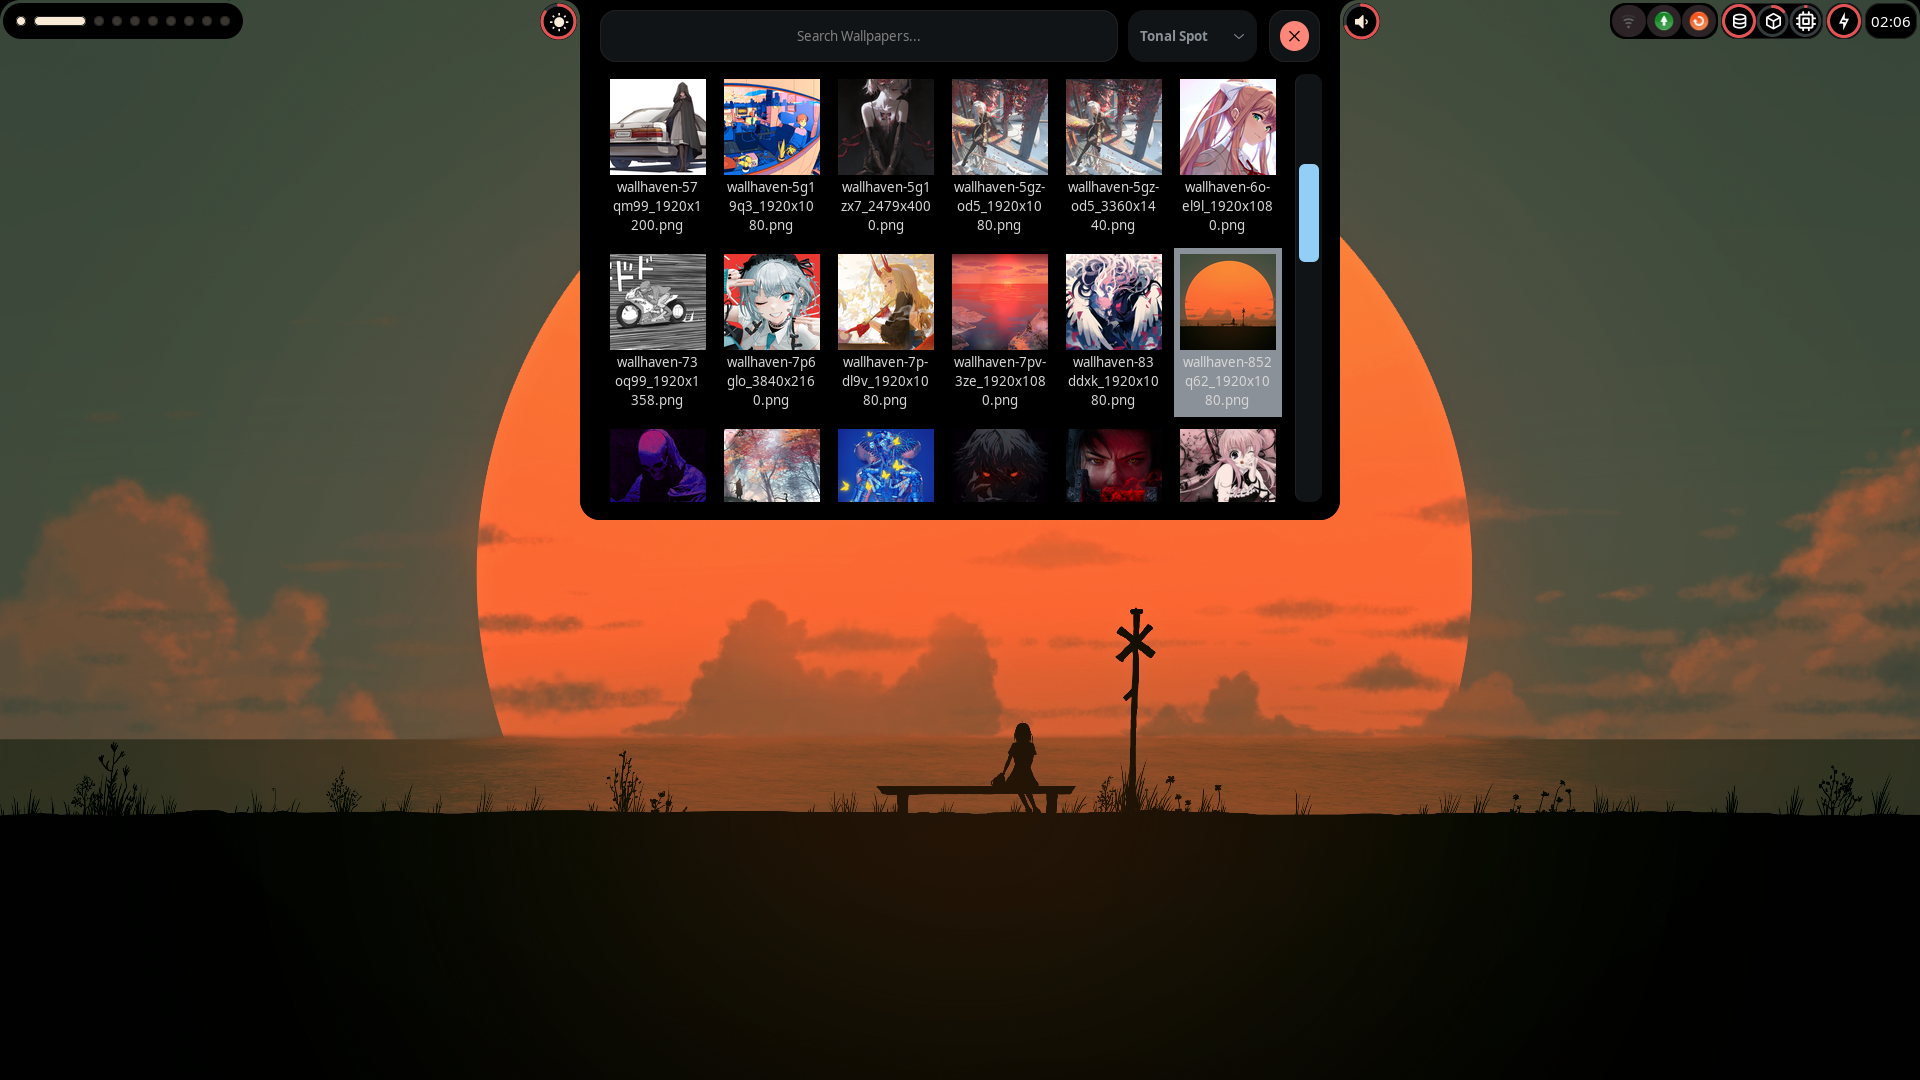
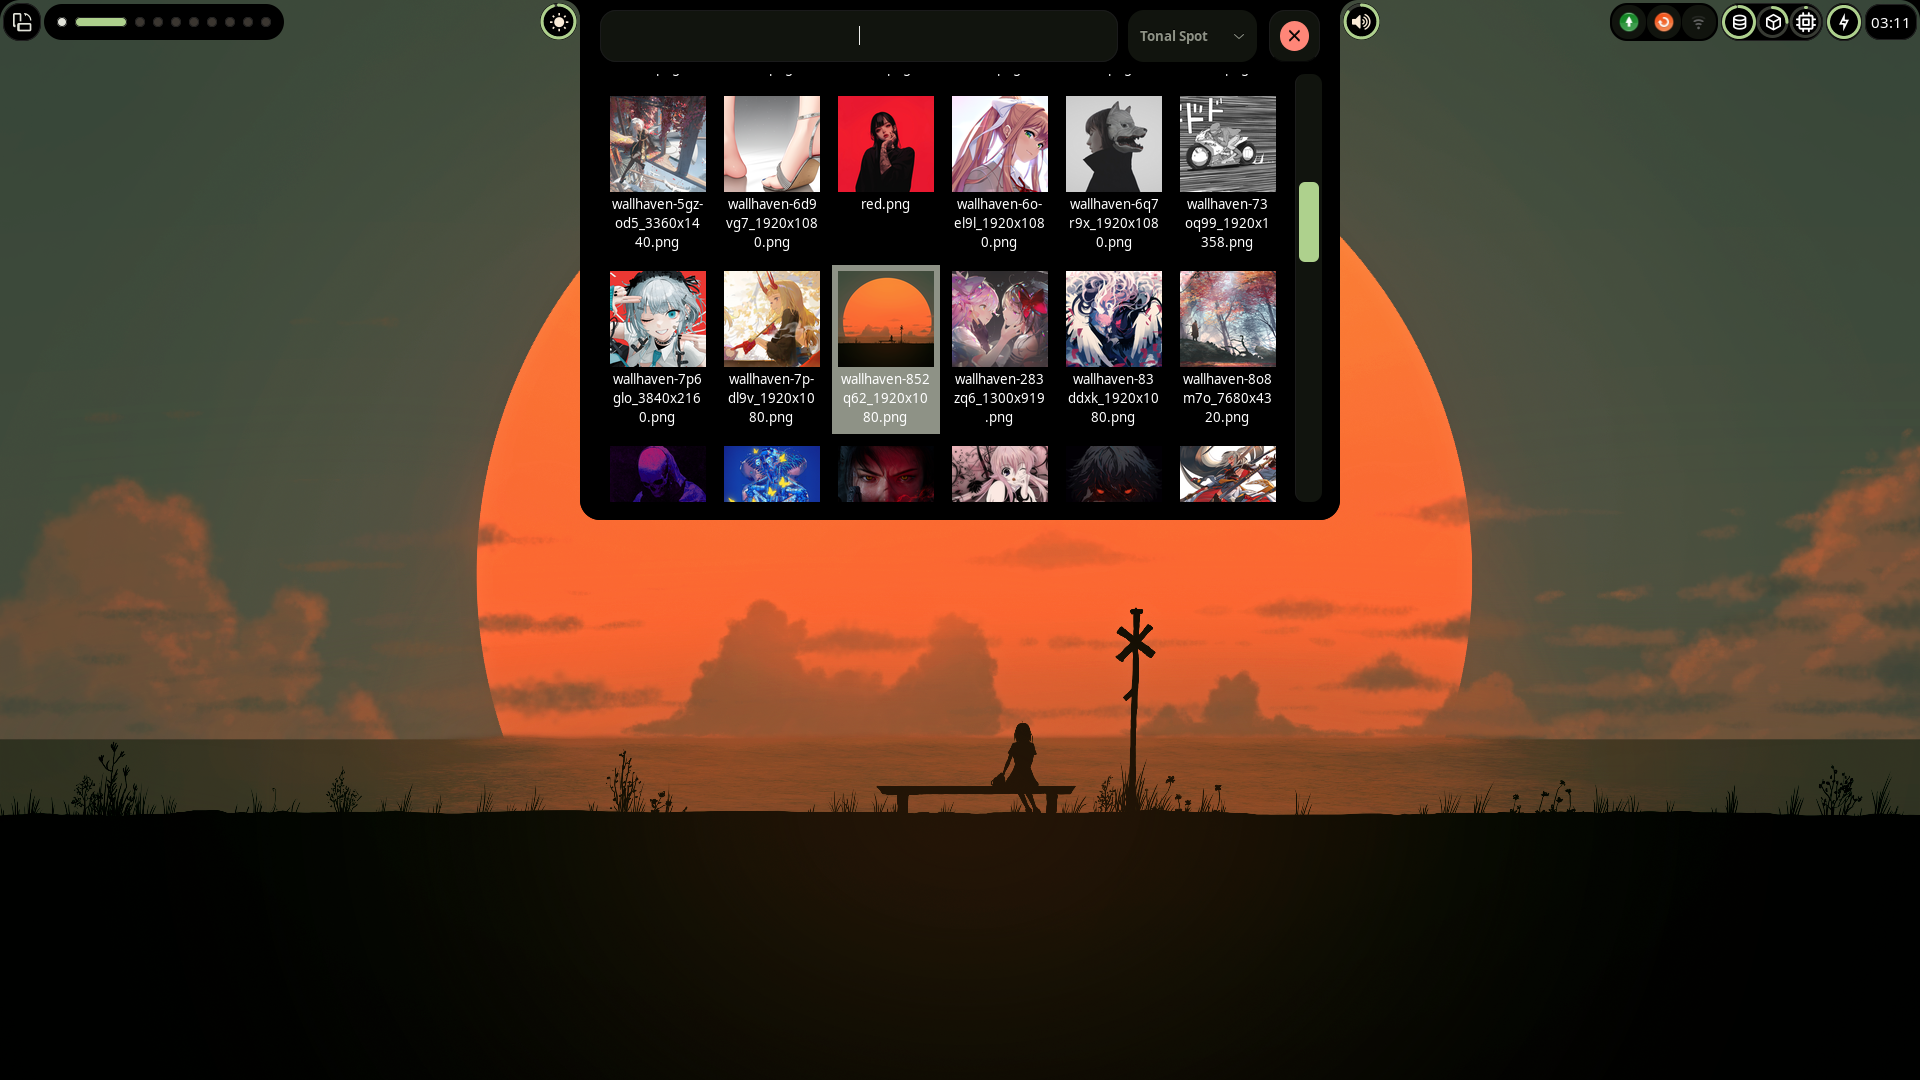
docs: Add vertical bar assets and update README.md

diff --git a/styles/colors.css b/styles/colors.css
@@ -1,34 +1,34 @@
 :vars {
-  --foreground: #dde4e3;
-  --background: #0e1415;
-  --cursor: #dde4e3;
-  --primary: #80d4d6;
-  --on-primary: #003738;
-  --secondary: #b0cccc;
-  --on-secondary: #1b3435;
-  --tertiary: #b4c8e9;
-  --on-tertiary: #1d314c;
-  --surface: #0e1415;
-  --surface-bright: #343a3a;
+  --foreground: #f1dedd;
+  --background: #1a1110;
+  --cursor: #f1dedd;
+  --primary: #ffb3ad;
+  --on-primary: #571e1b;
+  --secondary: #e7bdb9;
+  --on-secondary: #442927;
+  --tertiary: #e1c28c;
+  --on-tertiary: #402d04;
+  --surface: #1a1110;
+  --surface-bright: #423736;
   --error: #ffb4ab;
   --error-dim: #ff8678;
   --on-error: #690005;
   --error-container: #93000a;
-  --outline: #899392;
+  --outline: #a08c8a;
   --shadow: #000000;
-  --red: #ffb595;
-  --red-dim: #ff9162;
-  --green: #95d5a7;
-  --green-dim: #70c789;
-  --yellow: #b8cf84;
-  --yellow-dim: #a3c15f;
+  --red: #ffb4aa;
+  --red-dim: #ff8777;
+  --green: #b7d085;
+  --green-dim: #a1c260;
+  --yellow: #dec56e;
+  --yellow-dim: #d5b444;
   --blue: #bec2ff;
   --blue-dim: #8b92ff;
-  --magenta: #f2b3e5;
-  --magenta-dim: #eb87d6;
-  --cyan: #80d4d5;
-  --cyan-dim: #5ac7c8;
+  --magenta: #ffb1c1;
+  --magenta-dim: #ff7e98;
+  --cyan: #84d5c4;
+  --cyan-dim: #5ec8b2;
   --white: #82d3e0;
-  --pink: #ffb59d;
-  --light-pink: #ffb1c4;
+  --pink: #ffb3ae;
+  --light-pink: #ffb3b0;
 }

diff --git a/info.py b/info.py
@@ -7,6 +7,6 @@ USERNAME = os.getlogin()
 HOSTNAME = os.uname().nodename
 HOME_DIR = os.path.expanduser("~")
 WALLPAPERS_DIR = os.path.expanduser("~/Pictures/Wallpapers/")
-VERTICAL = True
+VERTICAL = False
 print(USERNAME, HOSTNAME, HOME_DIR)
 print(Gtk)

diff --git a/README.md b/README.md
@@ -15,6 +15,9 @@ A SOSS shell for <b>X11</b> and <b>i3wm</b>, crafted using [fabric](https://gith
     <td colspan="3"><img src="assets/showcase-btop.png"></td>
   </tr>
   <tr>
+    <td colspan="3"><img src="assets/showcase-vertical.png"></td>
+  </tr>
+  <tr>
     <td colspan="1"><img src="assets/showcase-player.png"></td>
     <td colspan="1"><img src="assets/showcase-launcher.png"></td>
     <td colspan="1"><img src="assets/showcase-wallpaper-selector.png"></td>
@@ -32,11 +35,12 @@ A SOSS shell for <b>X11</b> and <b>i3wm</b>, crafted using [fabric](https://gith
 - pactl
 - feh
 - gray
+- matugen
 - playerctl
   - (apt) gir1.2-playerctl-2.0
 
 ## Gray installation
-Zenith uses [Gray](https://github.com/Fabric-Development/gray?tab=readme-ov-file) for menu handling. Follow the installation steps in the official documentation.
+Zenith uses [Gray](https://github.com/Fabric-Development/gray?tab=readme-ov-file) for system trays. Follow the installation steps in the official documentation.
 Ensure you have the following dependencies installed before building:
 - valac
 - libdbusmenu-gtk3-dev
